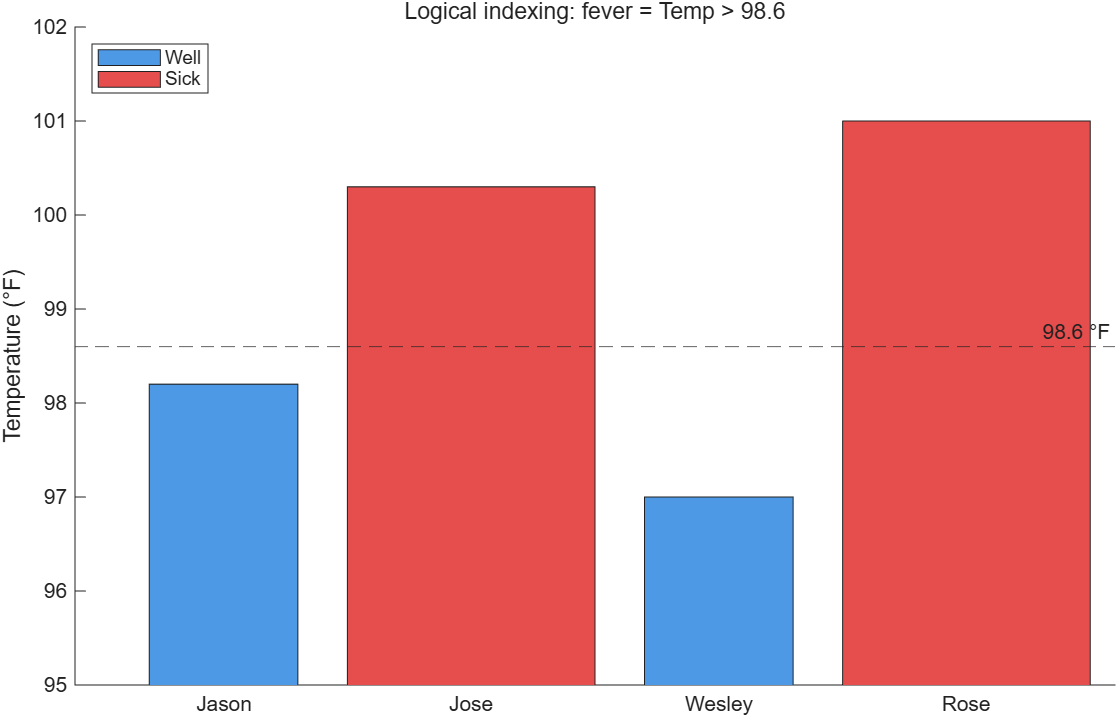
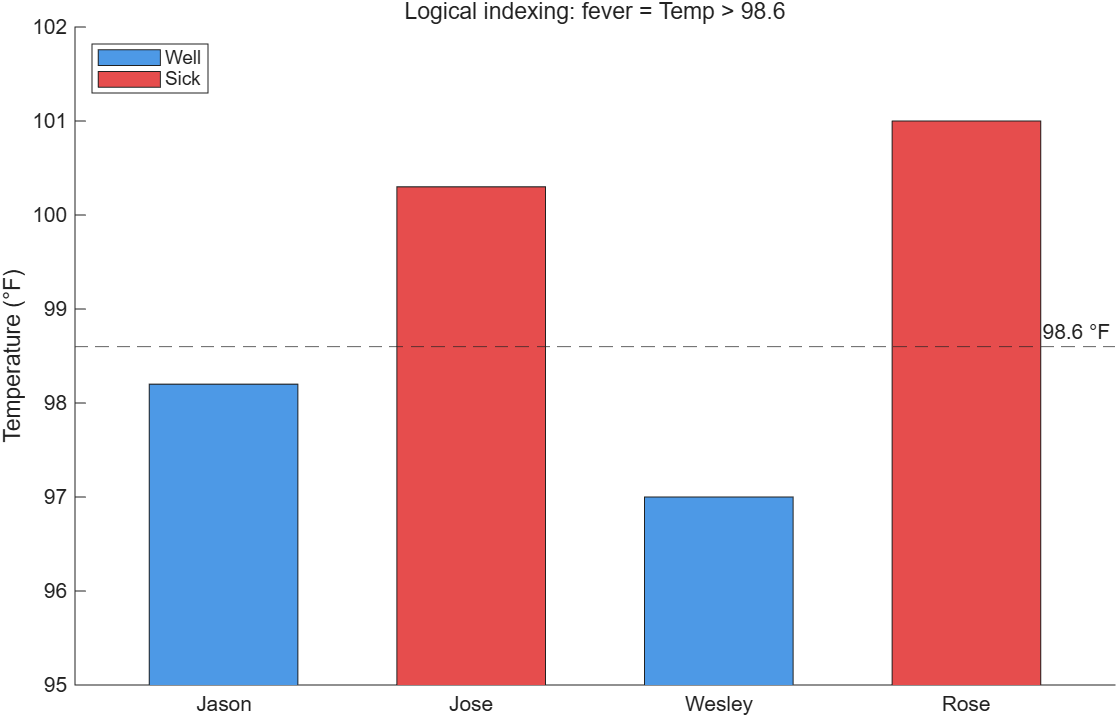
textbook/ch08: 코드 리뷰 반영
- ex0804_fever_plot: 두 번째 bar 폭이 0.5로 남아 md·PNG와 어긋나던 것을 0.3으로 맞추고 PNG 재생성
- ex0800_sequence → ex0801_sequence (없는 절 번호 00 제거)
- 슬라이드 p30의 `<= 35`와 본문 "less than 35" 불일치를 [보강]으로 명시
- 슬라이드 밖 설명 4곳과 menu 나열 형식, README 색인의 비슬라이드 행에 [보강] 표기

diff --git a/example/ch08/ex0801_sequence.m b/example/ch08/ex0801_sequence.m
@@ -1,4 +1,4 @@
-% ex0800_sequence.m — 세 가지 control structure 중 sequence (8장 도입)
+% ex0801_sequence.m — 세 가지 control structure 중 sequence (8장 도입)
 % 지금까지 쓴 코드는 전부 sequence 였다. 위에서 아래로 한 줄씩, 빠짐없이 실행된다.
 
 clear; clc

diff --git a/example/ch08/ex0804_fever_plot.m b/example/ch08/ex0804_fever_plot.m
@@ -12,7 +12,7 @@ figure
 theme(gcf, "light")
 hold on
 bar(n(~fever), Temp(~fever), 0.3, FaceColor=[0.3 0.6 0.9])
-bar(n(fever),  Temp(fever),  0.5, FaceColor=[0.9 0.3 0.3])
+bar(n(fever),  Temp(fever),  0.3, FaceColor=[0.9 0.3 0.3])
 yline(98.6, "--", "98.6 °F")
 hold off
 xticks(n)

diff --git a/textbook/ch08/README.md b/textbook/ch08/README.md
@@ -31,6 +31,8 @@ selection과 repetition의 조건은 **관계 연산자**와 **논리 연산자*
 
 ## 함수/키워드 색인
 
+> 절 칸에 `[보강]`이 붙은 행은 슬라이드에 없고 본문의 `[보강]` 블록에서만 다룬 것이다.
+
 | 이름 | 한 줄 설명 | 절 |
 |---|---|---|
 | `<` `<=` `>` `>=` | 크기 비교. 결과는 logical | 8.1 |
@@ -39,15 +41,15 @@ selection과 repetition의 조건은 **관계 연산자**와 **논리 연산자*
 | `&`, `\|`, `~` | 원소별 and / or / not. 배열에 쓴다 | 8.1 |
 | `xor` | 둘 중 **정확히 하나만** 참일 때 참. 함수 형태 | 8.1 |
 | `&&`, `\|\|` | short-circuit and / or. **스칼라 전용**, 배열이면 오류 | 8.1 |
-| `all`, `any` | 배열 → 스칼라 참/거짓. "전부" / "하나라도" | 8.1, 8.5.1 |
+| `all`, `any` | 배열 → 스칼라 참/거짓. "전부" / "하나라도" | 8.1, 8.5.1 [보강] |
 | `%`, `%%` | 주석 / 섹션. pseudocode를 옮겨 적는 자리 | 8.2 |
 | `find(cond)` | 조건이 참인 원소의 **인덱스**(열 우선 선형 인덱스) | 8.3 |
 | `[r, c] = find(cond)` | 행 번호와 열 번호를 따로 | 8.3 |
-| `find(cond, n)`, `"last"` | 처음 n개 / 마지막 n개만 | 8.3 |
-| `sub2ind`, `ind2sub` | (행, 열) ↔ 선형 인덱스 | 8.3 |
+| `find(cond, n)`, `"last"` | 처음 n개 / 마지막 n개만 | 8.3 [보강] |
+| `sub2ind`, `ind2sub` | (행, 열) ↔ 선형 인덱스 | 8.3 [보강] |
 | `x(cond)` | logical indexing. 조건이 참인 원소만 고른다 | 8.4 |
 | `x(cond) = v` | 조건이 참인 자리만 바꾼다. 없던 변수면 새로 만든다 | 8.4 |
-| `<missing>`, `ismissing` | string 배열의 빈 자리 / 그 확인 | 8.4 |
+| `<missing>`, `ismissing` | string 배열의 빈 자리 / 그 확인 | 8.4 [보강] |
 | `table(…, VariableNames=…)` | 결과를 열 이름 있는 표로 | 8.3, 8.4 |
 | `if … end` | 조건이 참이면 실행, 거짓이면 건너뜀 | 8.5.1 |
 | `if … else … end` | 참/거짓 두 갈래. **`else`에는 조건이 없다** | 8.5.2 |
@@ -55,12 +57,12 @@ selection과 repetition의 조건은 **관계 연산자**와 **논리 연산자*
 | `error` | 메시지를 내고 **프로그램을 멈춘다** | 8.5.2 |
 | `if … elseif … else … end` | 여러 갈래. 처음 참인 블록 하나만 실행 | 8.5.3 |
 | `switch … case … otherwise … end` | 한 변수의 **값이 같은지**로 갈래. 부등호 불가 | 8.5.4 |
-| `case {a, b}` | 여러 값을 한 `case`에. 중괄호 | 8.5.4 |
-| `lower` | 대소문자 맞춘 뒤 비교할 때 | 8.5.4 |
+| `case {a, b}` | 여러 값을 한 `case`에. 중괄호 | 8.5.4 [보강] |
+| `lower` | 대소문자 맞춘 뒤 비교할 때 | 8.5.4 [보강] |
 | `menu(prompt, list)` | 버튼 창. 누른 버튼의 **번호**, 닫으면 0 | 8.5.5 |
 | `listdlg` | 목록 고르기 창. `[idx, tf]`. `doc listdlg` | 8.5.5 |
-| `appdesigner` | App Designer. 현대식 GUI 만들기 | 8.5.5 |
-| `usejava('desktop')` | 데스크톱인지 배치인지 판별 (대화형 함수 가드용) | 8.5 전체 |
+| `appdesigner` | App Designer. 현대식 GUI 만들기 | 8.5.5 [보강] |
+| `usejava('desktop')` | 데스크톱인지 배치인지 판별 (대화형 함수 가드용) | 8.5 전체 [보강] |
 
 ## 챕터 요약 (시험 직전 체크리스트)
 

diff --git a/textbook/ch08/8.5.5-menu.md b/textbook/ch08/8.5.5-menu.md
@@ -45,7 +45,7 @@ $150
 
 Workspace에서 `city`는 `1×1 double`, `list`는 `1×3 string`, `prompt`는 `1×1 string`이다.
 
-> 구문법: `menu("Select a city", "Boston", "Denver", "Honolulu")`처럼 버튼 이름을 인수로 하나씩 나열하는 형식도 동작한다.
+> **[보강]** `menu("Select a city", "Boston", "Denver", "Honolulu")`처럼 버튼 이름을 인수로 하나씩 나열하는 형식도 동작한다(슬라이드에는 없다).
 
 > **[보강]** `menu`와 `listdlg`는 창을 띄우고 **사람이 누를 때까지 기다린다**. `matlab -batch`에서 부르면 오류가 나는 대신 **끝나지 않고 멈춘다**(R2026a에서 확인). 그래서 예제 파일은 `usejava('desktop')`으로 갈라 배치 실행에서는 `city = 2`를 직접 넣는다. 데스크톱에서 열면 진짜 창이 뜬다.
 

diff --git a/textbook/ch08/8.1-relational-logical.md b/textbook/ch08/8.1-relational-logical.md
@@ -12,7 +12,7 @@
 
 지금까지 쓴 코드는 전부 sequence였다. selection은 **논리 조건**으로 갈 길을 고르는데, 그 조건은 대개 관계 연산자와 논리 연산자로 만든다. 그래서 8장은 연산자부터 시작한다.
 
-[`example/ch08/ex0800_sequence.m`](../../example/ch08/ex0800_sequence.m):
+[`example/ch08/ex0801_sequence.m`](../../example/ch08/ex0801_sequence.m):
 
 ```matlab
 r = 2;              % 1. 반지름을 정한다
@@ -47,7 +47,9 @@ end
 | `==` | 같다 |
 | `~=` | 같지 않다 |
 
-`~=`는 수학책에서 보기 힘든 모양이다(수학은 ≠). C나 Python의 `!=`도 MATLAB에서는 쓸 수 없다.
+`~=`는 수학책에서 보기 힘든 모양이다(수학은 ≠).
+
+> **[보강]** C나 Python의 `!=`는 MATLAB에서 쓸 수 없다.
 
 ---
 

diff --git a/textbook/ch08/8.3-find.md b/textbook/ch08/8.3-find.md
@@ -83,6 +83,8 @@ qualify =
 
 세 조건을 `&`로 이었으므로 **셋 다** 참인 지원자만 남는다. 7명 중 3명이다. `applicants(:,1)`은 열 벡터이므로 결과 인덱스도 열 벡터다.
 
+> **[보강]** 슬라이드 p30의 코드는 `applicants(:,2) <= 35`인데, 본문 조건은 "less than 35 years old"(35 **미만**)이다. 이 노트는 본문 조건대로 `< 35`로 썼다. 이 자료에는 35세 지원자가 없어서 둘 다 `2 4 6`이 나오지만, 35세가 있으면 결과가 갈린다. 시험에서 "미만/이하"를 코드로 옮기라고 하면 `<`와 `<=`를 구분할 것.
+
 ### `fprintf`로 읽기 좋게
 
 [`example/ch08/ex0803_find_applicants.m`](../../example/ch08/ex0803_find_applicants.m) (계속):

diff --git a/textbook/ch08/8.4-logical-indexing.md b/textbook/ch08/8.4-logical-indexing.md
@@ -137,7 +137,9 @@ disp(table(Patient_Names', Temp', result', VariableNames=T))
 ## 요약에서 강조하는 점
 
 - logical indexing은 기준을 써서 배열에서 **자료를 뽑거나**, 기존 배열의 **자료를 바꾸는** 또 하나의 방법이다.
-- logical indexing은 같은 일을 logical function(`find`)으로 하는 것보다 **대개 계산 효율이 좋다**. 인덱스 번호를 만드는 중간 단계가 없기 때문이다.
+- logical indexing은 같은 일을 logical function(`find`)으로 하는 것보다 **대개 계산 효율이 좋다**.
+
+> **[보강]** 인덱스 번호를 만드는 중간 단계(`find`)가 없기 때문이다.
 
 ---
 

diff --git a/textbook/ch08/8.5.3-elseif.md b/textbook/ch08/8.5.3-elseif.md
@@ -16,7 +16,7 @@ else
 end
 ```
 
-위에서부터 차례로 비교해서 **처음으로 참인 블록 하나만** 실행하고 `end` 뒤로 빠져나간다. 모두 거짓이면 `else` 블록을 실행한다. `else`는 생략할 수 있다.
+> **[보강]** 위에서부터 차례로 비교해서 **처음으로 참인 블록 하나만** 실행하고 `end` 뒤로 빠져나간다. 모두 거짓이면 `else` 블록을 실행한다. `else`는 생략할 수 있다.
 
 ---
 

diff --git a/textbook/ch08/8.5.4-switch-case.md b/textbook/ch08/8.5.4-switch-case.md
@@ -19,7 +19,7 @@ switch variable
 end
 ```
 
-`if`와 달리 `case`에는 부등호가 들어가지 않는다. **같은가**만 본다.
+> **[보강]** `if`와 달리 `case`에는 부등호가 들어가지 않는다. **같은가**만 본다.
 
 ---
 
